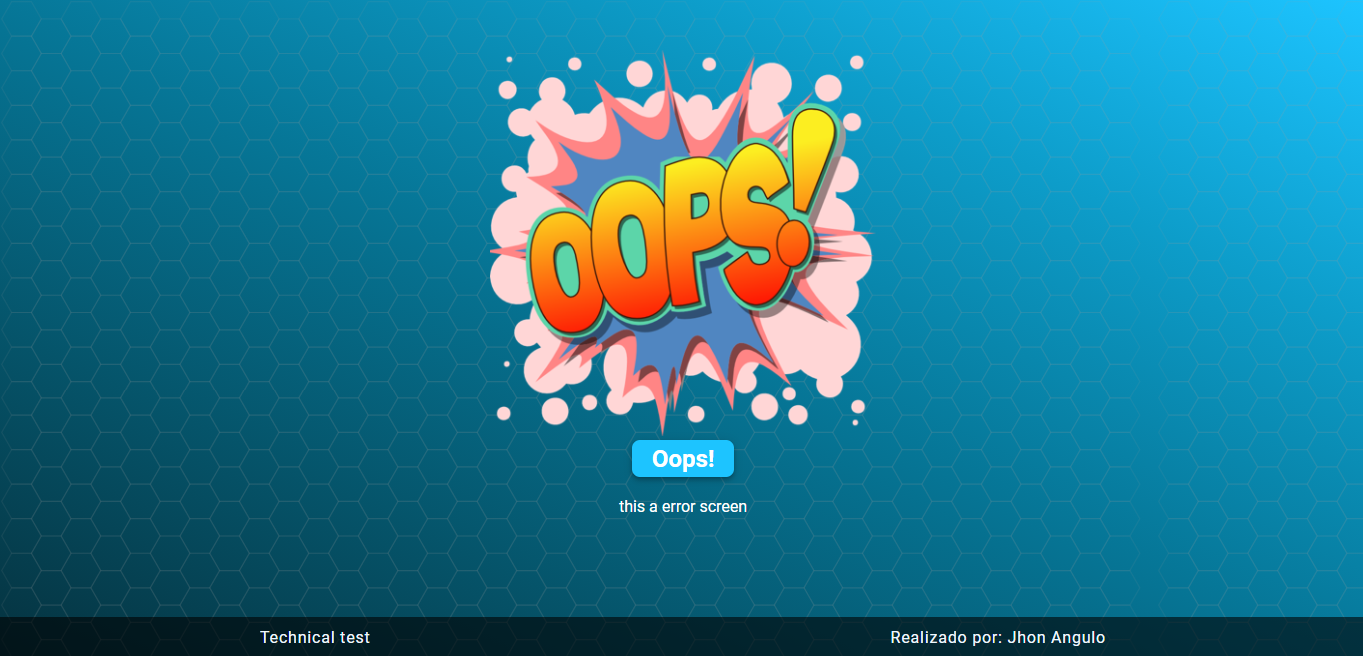
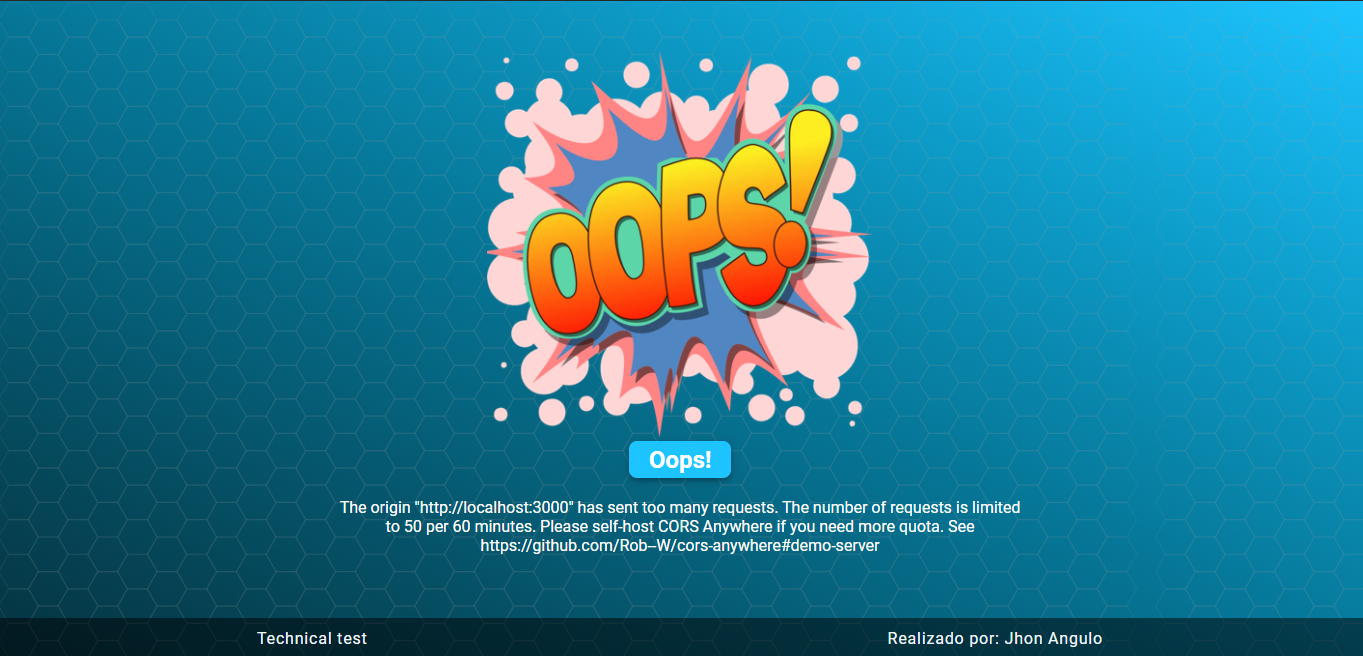
responsive design improvements

diff --git a/src/hooks/useComic.js b/src/hooks/useComic.js
@@ -7,8 +7,7 @@ const getRequestByProxy = (url) => {
   return new Promise((resolve, reject) => {
     fetch(`${proxyUrl}/${url}`, {
       headers: {
-        accept: 'Accept: application/json',
-        'X-Requested-With': 'https://xkcd.com',
+        'X-Requested-With': 'wololo',
         Host: 'xkcd.com',
         'Access-Control-Allow-Origin': '*'
       }
@@ -17,7 +16,6 @@ const getRequestByProxy = (url) => {
         if (resp.status === 200) {
           return resp.json()
         } else {
-          console.log(resp.json())
           return resp.text()
         }
       })

diff --git a/src/styles/components/_cardinfo.scss b/src/styles/components/_cardinfo.scss
@@ -1,10 +1,9 @@
 .cardinfo {
   overflow-y: auto;
-  min-width: 360px;
-  max-width: 400px;
   margin: 0 auto;
   min-height: 300px;
   max-height: 480px;
+  width: 500px;
   padding: 20px 50px;
   text-align: center;
   background-color: $background-color;
@@ -15,6 +14,7 @@
   @include lg {
     margin-top: 50px;
     margin-bottom: 50px;
+    max-width: 360px;
   }
 
   &--title {

diff --git a/src/styles/components/_comic_container.scss b/src/styles/components/_comic_container.scss
@@ -1,5 +1,12 @@
 .comic_container {
+  box-sizing: border-box;
+  margin: 0 auto;
+  width: 90%;
   text-align: center;
+  display: grid;
+  grid-template-rows: 80px 1fr;
+  justify-content: center;
+
 
   &--title {
     margin-top: 20px;
@@ -17,7 +24,6 @@
 
     @include lg {
       display: initial;
-      overflow-x: hidden;
     }
   }
 }

diff --git a/src/styles/global.scss b/src/styles/global.scss
@@ -24,7 +24,8 @@ html, body, #app {
 #app {
   display: grid;
   grid-template-rows: 1fr 40px;
-  background-image: url(/public/honeycomb.svg)
+  background-image: url(/public/honeycomb.svg);
+  overflow-x: hidden;
 }
 
 body {

diff --git a/src/styles/components/_cardcomic.scss b/src/styles/components/_cardcomic.scss
@@ -4,7 +4,6 @@
   text-align: center;
   @include animationIn;
 
-
   &--imagen {
     margin: 0 auto;
     width: 360px;
